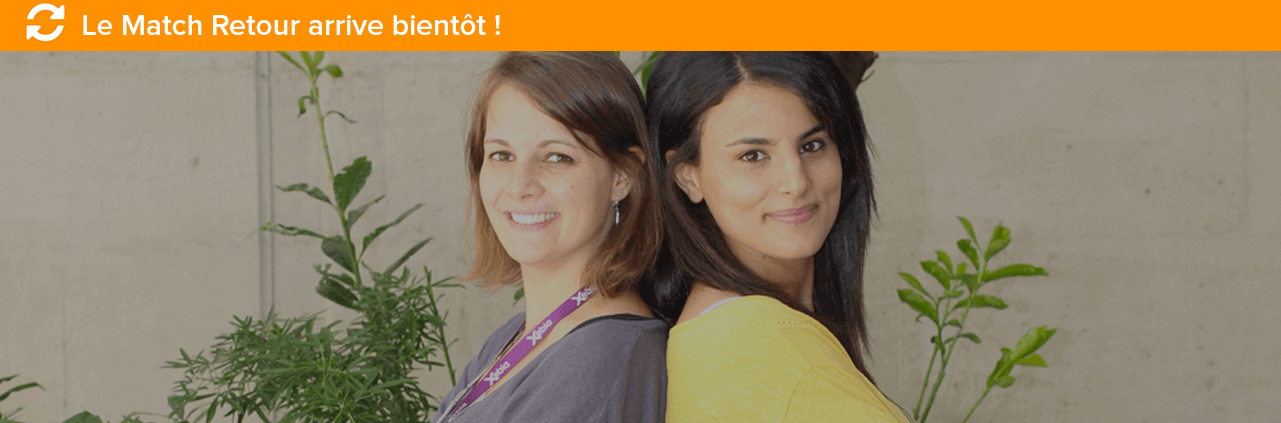
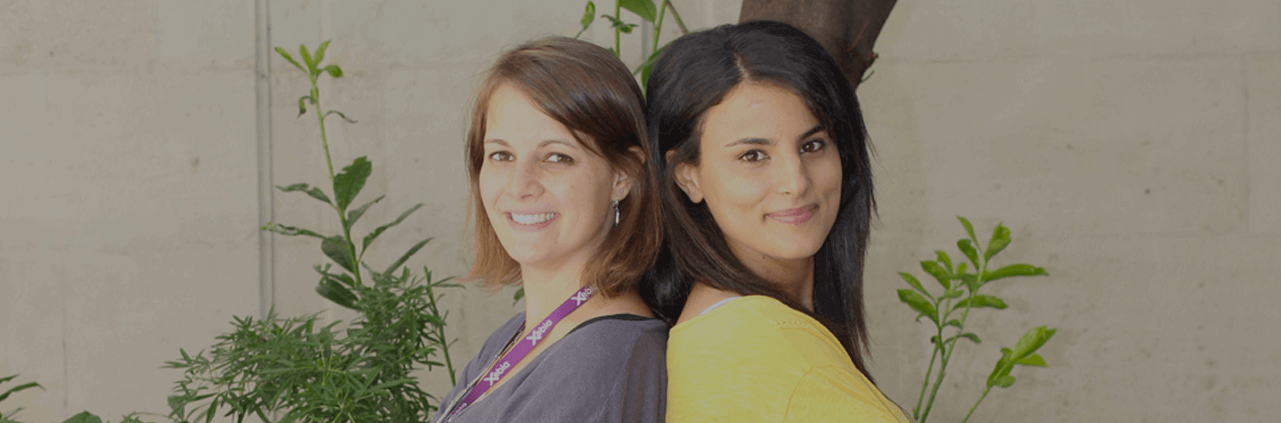
lien Data Scientist

Changed region(s): [[0.0, 0.0, 1.0, 0.1229]]

diff --git a/app/retour/ctrl.js b/app/retour/ctrl.js
@@ -94,7 +94,7 @@ angular.module('app')
                $scope.sourceImgBgMini = 'img/bg_marketing_560_matchretour.png';
                $scope.phraseConsultant = 'Cool, on va faire de superbes campagnes marketing !';
                $scope.nomConsultant = 'Anne Beauchart, Directrice Marketing';
-               $scope.phraseConsulte = ' !';
+               $scope.phraseConsulte = 'Data Done Right !';
                $scope.expert = 'L’EXPERTE';
                $scope.apprenti = 'L’APPRENTIE';
                $scope.nomConsulte = 'Sameh Ben Fredj, Consultante';
@@ -107,7 +107,7 @@ angular.module('app')
                $scope.video_google = "https://plus.google.com/share?url=https://bit.ly/VMV-DataScientist";
                $scope.video_linkedin = "https://www.linkedin.com/cws/share?url=https://bit.ly/VMV-DataScientist";
                $scope.video_facebook = "http://www.facebook.com/sharer.php?u=https://bit.ly/VMV-DataScientist";
-               $scope.blog_article = "http://blog.xebia.fr/2015/09/29/vis-ma-vie-episode-6-clement-daf-dun-jour";
+               $scope.blog_article = "http://blog.xebia.fr/2015/09/22/vis-ma-vie-episode-5-sameh-directrice-marketing-dun-jour/";
                $scope.texte_MatchReturn = "VIS MA VIE DE DIR. MARKETING"
                $scope.lien_matchRetour = "#/details?id=Dir. Marketing";
             }
